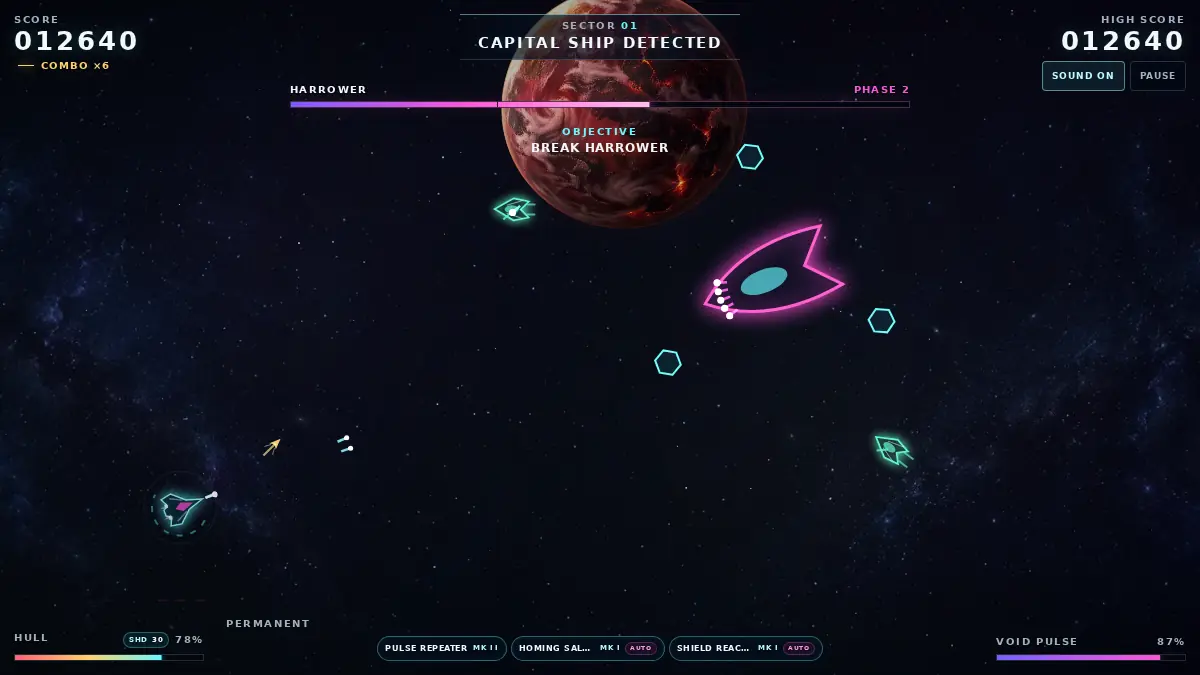
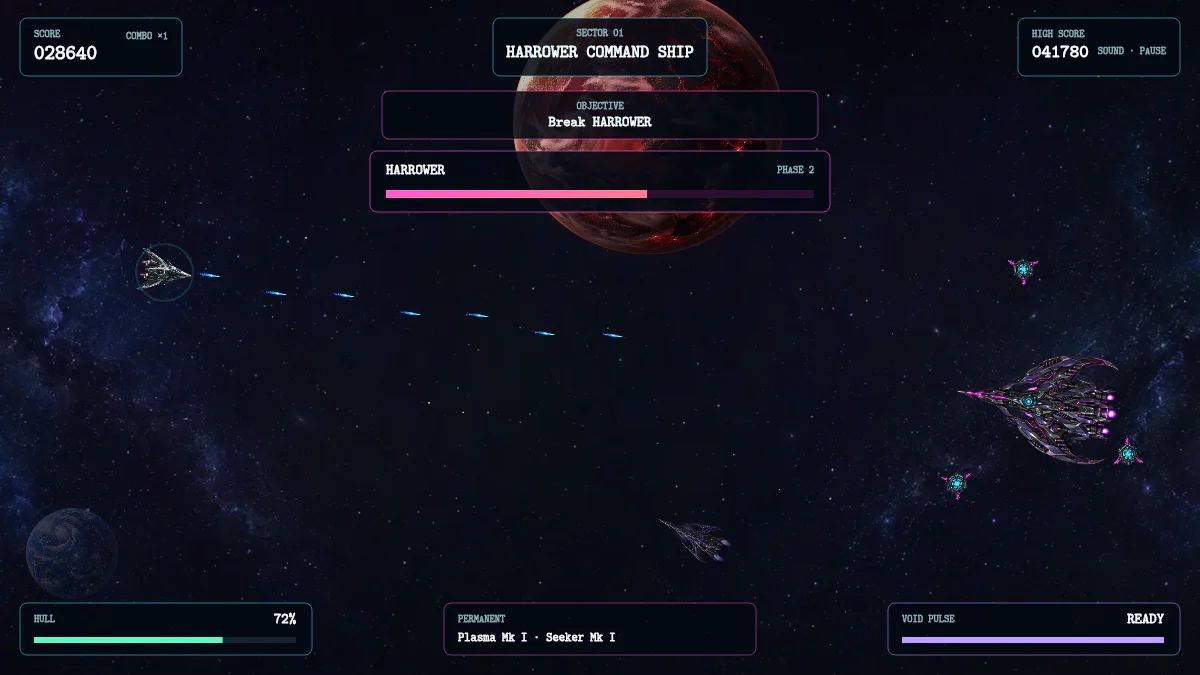
Refresh README gameplay captures (#29)
Replace obsolete public screenshots with current deterministic renderer captures, correct the Brood Carrier documentation cap, and freeze exact image dimensions with offline regressions.

Validated by the required Offline audit and the frozen 195-test local gate.

diff --git a/tests/offline.test.js b/tests/offline.test.js
@@ -76,6 +76,32 @@ function markdownReferences(source) {
   }));
 }
 
+function webpDimensions(buffer, label) {
+  assert.equal(buffer.subarray(0, 4).toString("ascii"), "RIFF", `${label} is not a WebP RIFF file`);
+  assert.equal(buffer.subarray(8, 12).toString("ascii"), "WEBP", `${label} is not a WebP file`);
+  for (let offset = 12; offset + 8 <= buffer.length;) {
+    const type = buffer.subarray(offset, offset + 4).toString("ascii");
+    const size = buffer.readUInt32LE(offset + 4);
+    const data = offset + 8;
+    if (type === "VP8 " && data + 10 <= buffer.length) {
+      assert.deepEqual(Array.from(buffer.subarray(data + 3, data + 6)), [0x9d, 0x01, 0x2a], `${label} has an invalid VP8 frame`);
+      return [buffer.readUInt16LE(data + 6) & 0x3fff, buffer.readUInt16LE(data + 8) & 0x3fff];
+    }
+    if (type === "VP8L" && data + 5 <= buffer.length) {
+      assert.equal(buffer[data], 0x2f, `${label} has an invalid VP8L frame`);
+      const bits = buffer.readUInt32LE(data + 1);
+      return [(bits & 0x3fff) + 1, ((bits >>> 14) & 0x3fff) + 1];
+    }
+    if (type === "VP8X" && data + 10 <= buffer.length) {
+      const width = buffer[data + 4] | buffer[data + 5] << 8 | buffer[data + 6] << 16;
+      const height = buffer[data + 7] | buffer[data + 8] << 8 | buffer[data + 9] << 16;
+      return [width + 1, height + 1];
+    }
+    offset = data + size + (size & 1);
+  }
+  assert.fail(`${label} has no supported WebP image chunk`);
+}
+
 module.exports = function register(test) {
   const html = readProject("index.html");
   const css = readProject("styles.css");
@@ -150,9 +176,8 @@ module.exports = function register(test) {
     for (const reference of references) {
       const file = localFile(reference);
       assert.ok(fs.statSync(file).size <= 256 * 1024, `${reference} exceeds the documentation image budget`);
-      const header = fs.readFileSync(file).subarray(0, 12);
-      assert.equal(header.subarray(0, 4).toString("ascii"), "RIFF", `${reference} is not a WebP RIFF file`);
-      assert.equal(header.subarray(8, 12).toString("ascii"), "WEBP", `${reference} is not a WebP file`);
+      const image = fs.readFileSync(file);
+      assert.deepEqual(webpDimensions(image, reference), [1200, 675], `${reference} must stay at the documented capture size`);
     }
 
     const directory = path.join(PROJECT_ROOT, "docs", "assets");
@@ -161,6 +186,17 @@ module.exports = function register(test) {
       .map((file) => path.relative(PROJECT_ROOT, file).split(path.sep).join("/"))
       .sort();
     assert.deepEqual(files, references.slice().sort(), "every README gameplay image must be referenced exactly once");
+  });
+
+  test("canonical visual documentation matches current captures and configured carrier ceilings", () => {
+    const assets = readProject("docs/ASSETS.md");
+    const design = readProject("docs/GAME_DESIGN.md");
+    assert.match(assets, /refreshed on 2026-08-21 from the actual `v2026\.8\.21e` game state and `ND\.Renderer` at 1200×675/);
+    assert.doesNotMatch(assets, /predate(?:s|d)? the `v2026\.8\.20e` complete gameplay-art pass/i,
+      "asset guide still describes the public captures as obsolete");
+    assert.match(design, /Brood Carriers[\s\S]*four-living-child lineage cap through hard-cull requeues/);
+    assert.doesNotMatch(design, /Brood Carriers[\s\S]*six-living-child lineage cap/,
+      "game design drifted from the configured four-child Brood ceiling");
   });
 
   test("README stays concise, player-facing, and connected to the project guides", () => {

diff --git a/AUDIT.md b/AUDIT.md
@@ -1,54 +1,52 @@
 # Neon Voyage v2026.8.21e — source audit
 
 - Audited: 2026-08-21
-- Scope: ordinary-alien durability, density, readability, and progressive damage presentation
+- Scope: current-renderer README captures and canonical visual-documentation accuracy
 - Targets: direct `file://` launch and GitHub Pages repository-subpath hosting
-- Result: **PASS — 194/194 dependency-free tests and the 94-entry checksum manifest verified**
-- Player-facing behavior change: **yes; runtime label advances from `v2026.8.21d`**
+- Result: **PASS — 195/195 dependency-free tests and the 94-entry checksum manifest verified**
+- Player-facing behavior change: **no; runtime label remains `v2026.8.21e`**
 
-Observed locally with Node v24.19.0 on Linux 6.18.35 x86_64. Node is used only by the dependency-free verification harness and is not part of the browser game.
+Observed locally with Node v24.19.0 on Linux 6.18.35 x86_64. Node is used only by the dependency-free verification and documentation-capture harnesses and is not part of the browser game.
 
 ## Baseline
 
-- Clean `main` started at `22425154a5073b75eb1e8eb880bf65d678a1dc11`, matching `origin/main`.
+- Clean `main` started at `6feb2eae88e0c437e3a5bb8abcbcbf78817cdd34`, matching `origin/main`.
 - GitHub had no open issue or pull request and only the `main` branch.
-- Post-merge Offline audit run `32513844128` and Pages run `32513844025` passed on the baseline commit.
-- The deployed baseline returned HTTP 200 and reported `v2026.8.21d`.
+- Post-merge Offline audit run `32516611426` and Pages run `32516611491` passed on the baseline commit.
+- The deployed baseline returned HTTP 200 and reported `v2026.8.21e`; a real New Game, primary-fire action, Void Pulse action, and Settings inspection completed without a page-origin console error or warning.
 
 ## Substantiated problems
 
-- At Sector 1 Stage 3, the original three-health Scout scaled to 3.30 health and required only four Mk I Pulse hits, about 0.54 seconds between first and lethal shot before the already-earned Homing Salvo was counted. This did not leave enough time for first contact to communicate its attack or damage state.
-- Authored root formations were already small: Stage 3 opens with one Scout and later alien waves use three or four roots. Reducing root counts would create empty pacing rather than solve excess density.
-- Carrier ceilings could add four Scouts or six Lancers to those small root formations. With stronger children, keeping those ceilings would create the crowding the durability pass is intended to avoid.
-- All seven existing alien WebPs were inspected together and at their actual renderer sizes. They already form a distinct violet/green biomechanical family, so replacement art was not substantiated; the smallest dark silhouettes needed stronger play-scale presentation instead.
+- Both README gameplay images were the exact 1200×675 files documented as predating the complete realistic gameplay-art and expanded-field passes. Visual inspection confirmed cyan procedural polygon asteroids in the Earth capture and the obsolete outlined Harrower silhouette in the command capture.
+- `docs/GAME_DESIGN.md` still claimed a six-living-child Brood Carrier lineage cap even though `js/config.js`, architecture documentation, tests, and the deployed `v2026.8.21e` behavior use four.
+- The README alternative text described only generic asteroid and Harrower encounters and did not identify the current raster threats, Rapid device, or boss nodes now shown.
 
-## Candidate behavior
+## Candidate result
 
-### Fewer, tougher contacts
+### Current public gameplay evidence
 
-- Base health is now 7/12/17/30/15/27/60 for Scout, Striker, Bomber, Carrier, Lancer, Gunship, and Brood Carrier. The first Scout therefore requires at least eight unamplified Mk I Pulse hits at Stage 3.
-- Stage roots and their seeded order are unchanged. Ordinary Carrier living children are capped at three and Brood Carrier Lancers at four, including hard-cull requeues and lineage restoration.
-- Contact damage, speeds, cooldowns, attack state machines, rewards, objective ownership, boss definitions, and the global 30-alien cap are unchanged.
+- `docs/assets/neon-voyage-earth-orbit.webp` is a fresh 1200×675 Stage 1 capture from deterministic seed 2101. It shows the realistic rock, crystal, and volatile bodies, the dedicated turbine-shaped Rapid pickup without the rejected three-line glyph, local plasma fire, the Interceptor, Earth, and readable run status.
+- `docs/assets/neon-voyage-command-arena.webp` is a fresh 1200×675 Stage 5 capture from deterministic seed 5105. It shows the realistic Harrower and live nodes, a damaged Striker escort, exchanged raster projectiles, the command-world scene, and readable boss status.
+- Both scenes came from the actual `ND.game` state and `ND.Renderer`. An untracked local QA harness attached the repository test-browser contract to a real Canvas, decoded repository-local WebPs, and composed HUD values from the same game state and current interface labels. Sharp encoded the unchanged composed frames to WebP. No generated or unrelated scene was substituted.
+- README alternative text now describes the depicted action. `docs/ASSETS.md` records the seeds, dimensions, environment, method, dependency boundary, and exact capture contract.
 
-### Raster-led readability and damage
+### Canonical accuracy and regression
 
-- Ordinary alien draw sizes increase by 8–12 pixels in width while collision radii remain unchanged; the Scout is now presented at the same 76×51 px footprint as the player interceptor but retains its unrelated biomechanical silhouette.
-- A localized low-opacity violet/green signature reinforces the existing emissive core. It is a filled radial material glow, not a hard halo, outline, shield ring, or aim line.
-- Health ratios below 60%, 35%, and 18% select three deterministic damage stages. Smoke, filled flame, and a soft internal burn glow stay attached to an ID-derived hull location and use render time only; they write no simulation state and consume no randomness.
-- Reduced effects keep fewer smoke puffs and static/lower emission. Pending or failed alien images still use the established procedural fallback without receiving raster-only overlays.
+- The Brood Carrier design sentence now matches the configured four-child lifetime/lineage ceiling and its hard-cull behavior.
+- Offline coverage parses VP8, VP8L, and VP8X dimensions without an image dependency and freezes both documentation captures at 1200×675, in addition to the existing WebP signature, unique-reference, and 256 KiB checks.
+- A dedicated canonical-documentation regression rejects obsolete capture wording and any return to a six-child Brood claim.
 
 ## Compatibility and boundaries
 
 | Area | Candidate result |
 | --- | --- |
-| Runtime surface | Dependency-free HTML/CSS/classic JavaScript/Canvas/Web Audio architecture preserved; no file or asset added |
-| Offline/security | Restrictive CSP, relative local resources, and zero runtime network requests preserved |
-| Determinism | Health and child ceilings remain frozen config; damage presentation derives only from health, ID, reduced-effects state, and render time |
-| Caps/objectives | Authored root totals, objective accounting, lineage requeues, and global entity caps preserved; child ceilings lowered |
-| Saved progress | Preference key, progress key, strict schema 4, and schema-3/schema-2/schema-1 migrations unchanged |
-| Input/accessibility | Keyboard, mouse, touch, gamepad, focus, orientation, off-screen cues, and reduced effects retained |
-| Visual direction | Existing realistic alien rasters remain authoritative; no generic procedural line, outline, hard halo, or duplicated silhouette added |
-| Audio | Mix, limiter, cues, 80% default, slider, mute, cooldown, and 24-node cap unchanged |
+| Runtime behavior | HTML, CSS, JavaScript, balance, rendering, audio, input, persistence, and runtime assets are byte-for-byte unchanged |
+| Versioning | Documentation-only maintenance keeps `v2026.8.21e`; no changelog heading, tag, or GitHub Release is added |
+| Offline/security | Restrictive CSP, relative local resources, direct-file startup, Pages subpath hosting, and zero runtime network requests are unchanged |
+| Determinism and caps | Fixed-step simulation, seeded state, entity caps, objective accounting, and the complete seven-stage campaign are unchanged |
+| Saved progress | Preference key, progress key, strict schema 4, and schema-3/schema-2/schema-1 migrations are unchanged |
+| Input/accessibility | Keyboard, mouse, touch, gamepad, focus, orientation, reduced effects, feedback options, and meaningful image alternatives remain covered |
+| Repository surface | Exactly two local README WebPs remain; both are 1200×675 and below the 256 KiB per-image limit |
 
 ## Engineering-standard disposition
 
@@ -56,16 +54,15 @@ Standard status remains `adopting` because the active GitHub ruleset reports `re
 
 ## Frozen verification
 
-The first complete candidate pass verified all `194/194` tests with the 94-entry manifest. After this evidence record was finalized, the manifest and entire gate were rerun on the exact frozen candidate.
+The focused offline documentation suite passed `16/17` before manifest regeneration, with only the intentionally stale checksum failing. A complete pre-freeze pass then passed all non-checksum tests and the long deterministic stress run, with only an incorrectly prefixed first manifest generation rejected. After correcting its paths, the complete candidate passed `195/195`. The evidence-inclusive candidate then passed `195/195` again with the exact 94-entry manifest.
 
 | Check | Observed result |
 | --- | --- |
-| Focused config and renderer suites | PASS — `35/35`; includes exact durability/child ceilings, at-least-eight-hit first contact, play-scale raster sizes, all three damage thresholds, filled emission, and zero line overlay |
-| Focused deterministic gameplay suite | PASS — `72/72`; includes carrier lineage/requeue ceilings, all alien attack roles, Stage 1–7 journey, both bosses, caps, and objectives |
-| Actual-size raster inspection | PASS — all seven alien WebPs inspected together and on a dark 880×270 play-scale sheet; distinct biomechanical silhouettes and clean alpha retained |
-| `node tests/run.js` | PASS — `194/194`; includes syntax, offline/security, version and asset integrity, exact alien durability/child ceilings, all alien roles and damage states, saved-data migrations, responsive input/accessibility, Stage 1–7 weapon journey, both bosses, and long deterministic stress |
+| Focused offline documentation suite | PASS — every reference, WebP signature, exact 1200×675 dimension, image-size cap, alternative-text, current-capture, and four-child canonical assertion passed; the expected stale-manifest check was resolved before freeze |
+| Current-renderer visual inspection | PASS — both full-size WebPs were inspected; all named ships, asteroids, projectiles, pickup, boss nodes, effects, worlds, and HUD values are legible, use current raster art, and contain no obsolete decorative line overlays |
+| `node tests/run.js` | PASS — `195/195`; includes syntax, offline/security, exact asset references, saved-data migrations, responsive input/accessibility, deterministic Stage 1–7 weapon journey, Titan/Harrower/Leviathan coverage, entity caps, and long stress |
 | `sha256sum --check SHA256SUMS` | PASS — all 94 release entries verified |
 | `git diff --check` | PASS — no whitespace error |
 | Candidate browser preview | Unavailable; repository workflow publishes Pages only from merged `main` |
 
-No physical phone/iPad session, subjective audio listening, uninterrupted human-controlled seven-stage completion, immutable tag, or GitHub Release is claimed. A public merge still requires the required pull-request audit, post-merge audit, Pages deployment, exact live-version check, one real Play interaction, alien-stage visual inspection, Settings verification, and page-origin console review.
+No physical phone/iPad session, subjective audio listening, uninterrupted human-controlled seven-stage completion, candidate browser preview, immutable tag, or GitHub Release is claimed. A public merge still requires the required pull-request audit, post-merge audit, Pages deployment, live README and image inspection, exact live-version check, one real Play interaction, Settings verification, and page-origin console review.

diff --git a/docs/GAME_DESIGN.md b/docs/GAME_DESIGN.md
@@ -52,7 +52,7 @@ Asteroids are physical ballistic hazards. They separate and bounce when they hit
 
 An Auric Colossus owns an exact 1→3→6 split tree. Its compact rocky children inherit 86% then 90% of parent velocity and add only 38 px/s then 26 px/s of bounded seeded separation, so the mass breaks apart gradually instead of producing a fast radial starburst. Explosive descendants retain a local 120 px death blast, while magnetic descendants pull the ship only inside a 300 px field with one aggregate acceleration cap. Coronas warn before activating a rotating 520 px beam, return to a finite cooldown, and produce a separate local 160 px death blast. These hazards stay ballistic: their counterplay does not turn the asteroid family into projectile-firing spacecraft.
 
-Alien families have distinct staged roles: scouts strafe and fire, strikers telegraph charges, bombers place mines, legacy carriers launch bounded configured children, and lancers coordinate aggressive attack lines. Gunships stop to warn before a finite active laser and then return to cooldown instead of adding projectile spam. Brood Carriers take only 30% direct player-bullet damage beyond 300 px, take full damage at close range, launch two lancers at a time, and preserve a six-living-child lineage cap through hard-cull requeues.
+Alien families have distinct staged roles: scouts strafe and fire, strikers telegraph charges, bombers place mines, legacy carriers launch bounded configured children, and lancers coordinate aggressive attack lines. Gunships stop to warn before a finite active laser and then return to cooldown instead of adding projectile spam. Brood Carriers take only 30% direct player-bullet damage beyond 300 px, take full damage at close range, launch two lancers at a time, and preserve a four-living-child lineage cap through hard-cull requeues.
 
 Every ordinary and boss stage occupies the same larger finite rectangular field. The camera follows the ship through a restrained viewport-relative dead zone and velocity lookahead, but clamps before the viewport can reveal beyond the hard field boundary. Capped edge cues reuse target art, cluster nearby off-screen objectives, and prioritize actionable boss nodes and spacecraft without replacing exploration or aiming. The Harrower and Leviathan retain distinct phase sets, silhouettes, attacks, and escorts; while any Leviathan shield node survives, its reflector cycles through warning, active, and cooldown phases.
 

diff --git a/docs/ASSETS.md b/docs/ASSETS.md
@@ -78,9 +78,9 @@ The six previously accepted subjects remain byte-for-byte unchanged. The current
 | `docs/assets/neon-voyage-earth-orbit.webp` | README opening-gameplay capture |
 | `docs/assets/neon-voyage-command-arena.webp` | README Harrower encounter capture |
 
-Both captures come from a real local renderer. They predate the `v2026.8.20e` complete gameplay-art pass and the `v2026.8.20f` expanded scrolling-field pass, and remain documentation-only until a fresh real-renderer capture is warranted; they are kept compressed, repository-local, and meaningfully described in the README.
+Both captures were refreshed on 2026-08-21 from the actual `v2026.8.21e` game state and `ND.Renderer` at 1200×675. The opening capture uses deterministic Stage 1 seed 2101 and shows the realistic rock, crystal, and volatile families, the dedicated Rapid turbine, local projectiles, Earth, and readable run state. The command capture uses deterministic Stage 5 seed 5105 and shows the Harrower, its live nodes, a damaged Striker escort, exchanged projectiles, the command-world scene, and boss status. A local capture harness attached the repository's test-browser contract to a real Canvas implementation, decoded only repository-local WebPs, and composed the HUD from the same `ND.game` state and current interface labels; it did not substitute generated scenery or a mock gameplay scene. The untracked QA harness used Node v24.19.0 with runtime-provided `@napi-rs/canvas` and Sharp only to capture and encode documentation evidence; neither library is a project dependency or runtime resource.
 
-The two current captures are 1200×675 WebP files. The audit enforces a 256 KiB maximum per documentation image.
+The two current captures are 1200×675 WebP files. The audit enforces both exact dimensions and a 256 KiB maximum per documentation image.
 
 ## Art direction
 

diff --git a/tests/README.md b/tests/README.md
@@ -14,7 +14,7 @@ Node.js 22 is the minimum local verification baseline. Both GitHub workflows pin
 | Suite | Responsibility |
 | --- | --- |
 | `config-core.test.js` | Immutable seven-stage configuration and bounded audio mix/limiter values, stage-clear/touch-hold/game-over presentation timing, early Titan/alien novelty, durable alien contacts and child ceilings, two-boss cadence, five reward bands, gated powerups/modules, five milestones, crystal shrapnel, 13 Mk V systems, deterministic math, storage, bounds, and caps |
-| `offline.test.js` | CSP, local resources, repository hygiene, documentation, checksums, and workflows |
+| `offline.test.js` | CSP, local resources, repository hygiene, meaningful README references, exact 1200×675 documentation captures, canonical capture/carrier claims, checksums, and workflows |
 | `browser-smoke.test.js` | Dependency-free browser/DOM/Canvas boot, bounded material/weapon-specific audio vocabulary, lifted voice gain, limiter routing, master-gain clamping, generated Enigma preview integration, and compact accessible touch summaries |
 | `progress.test.js` | Strict schema-4 validation, strongest-loadout schema-3 twenty-to-seven compaction, exact schema-2/schema-1 migration, compatible/persistent volume and impact-feedback preferences, seven Mk V/stacked checkpoints, five milestone rewards, loadout summaries, dialogs, focus, and stage selection |
 | `mobile-input.test.js` | Floating-stick ownership and response, queued ultra-short desktop click/Space taps, delayed stationary auto-aim/manual latch/hybrid-manual priority/target cleanup, ready-only actions, Enigma input blocking, pointer failures, lifecycle cleanup, orientation, and mobile layout |

diff --git a/README.md b/README.md
@@ -9,7 +9,7 @@ Neon Voyage is a fast, finite-arena space shooter about leaving Earth, crossing 
 
 ## [▶ Play Neon Voyage in your browser](https://xenovoyage.github.io/Neon-Voyage/)
 
-[![Play Neon Voyage — launch above Earth and fire through an asteroid wave.](docs/assets/neon-voyage-earth-orbit.webp)](https://xenovoyage.github.io/Neon-Voyage/)
+[![Play Neon Voyage — fire through realistic asteroid debris above Earth.](docs/assets/neon-voyage-earth-orbit.webp)](https://xenovoyage.github.io/Neon-Voyage/)
 
 ## At a glance
 
@@ -42,7 +42,7 @@ The voyage now reaches its full escalation in seven distinct stages. A finite Ti
 
 Every ship, asteroid, projectile, pickup, and impact now shares one realistic deep-space art direction. Raster-backed craft use attached gradient exhaust and soft state auras rather than old procedural line decoration; locally synthesized weapon, material-impact, and destruction cues start at an 80% master level and can be adjusted from 0–100% in Settings. Camera shake and full-screen flashes are independent, persistent options that start off.
 
-![The Neon Voyage ship confronting the Harrower across the full battlefield.](docs/assets/neon-voyage-command-arena.webp)
+![The Interceptor firing on the Harrower and its shield nodes in Stage 5.](docs/assets/neon-voyage-command-arena.webp)
 
 ## Run locally
 
